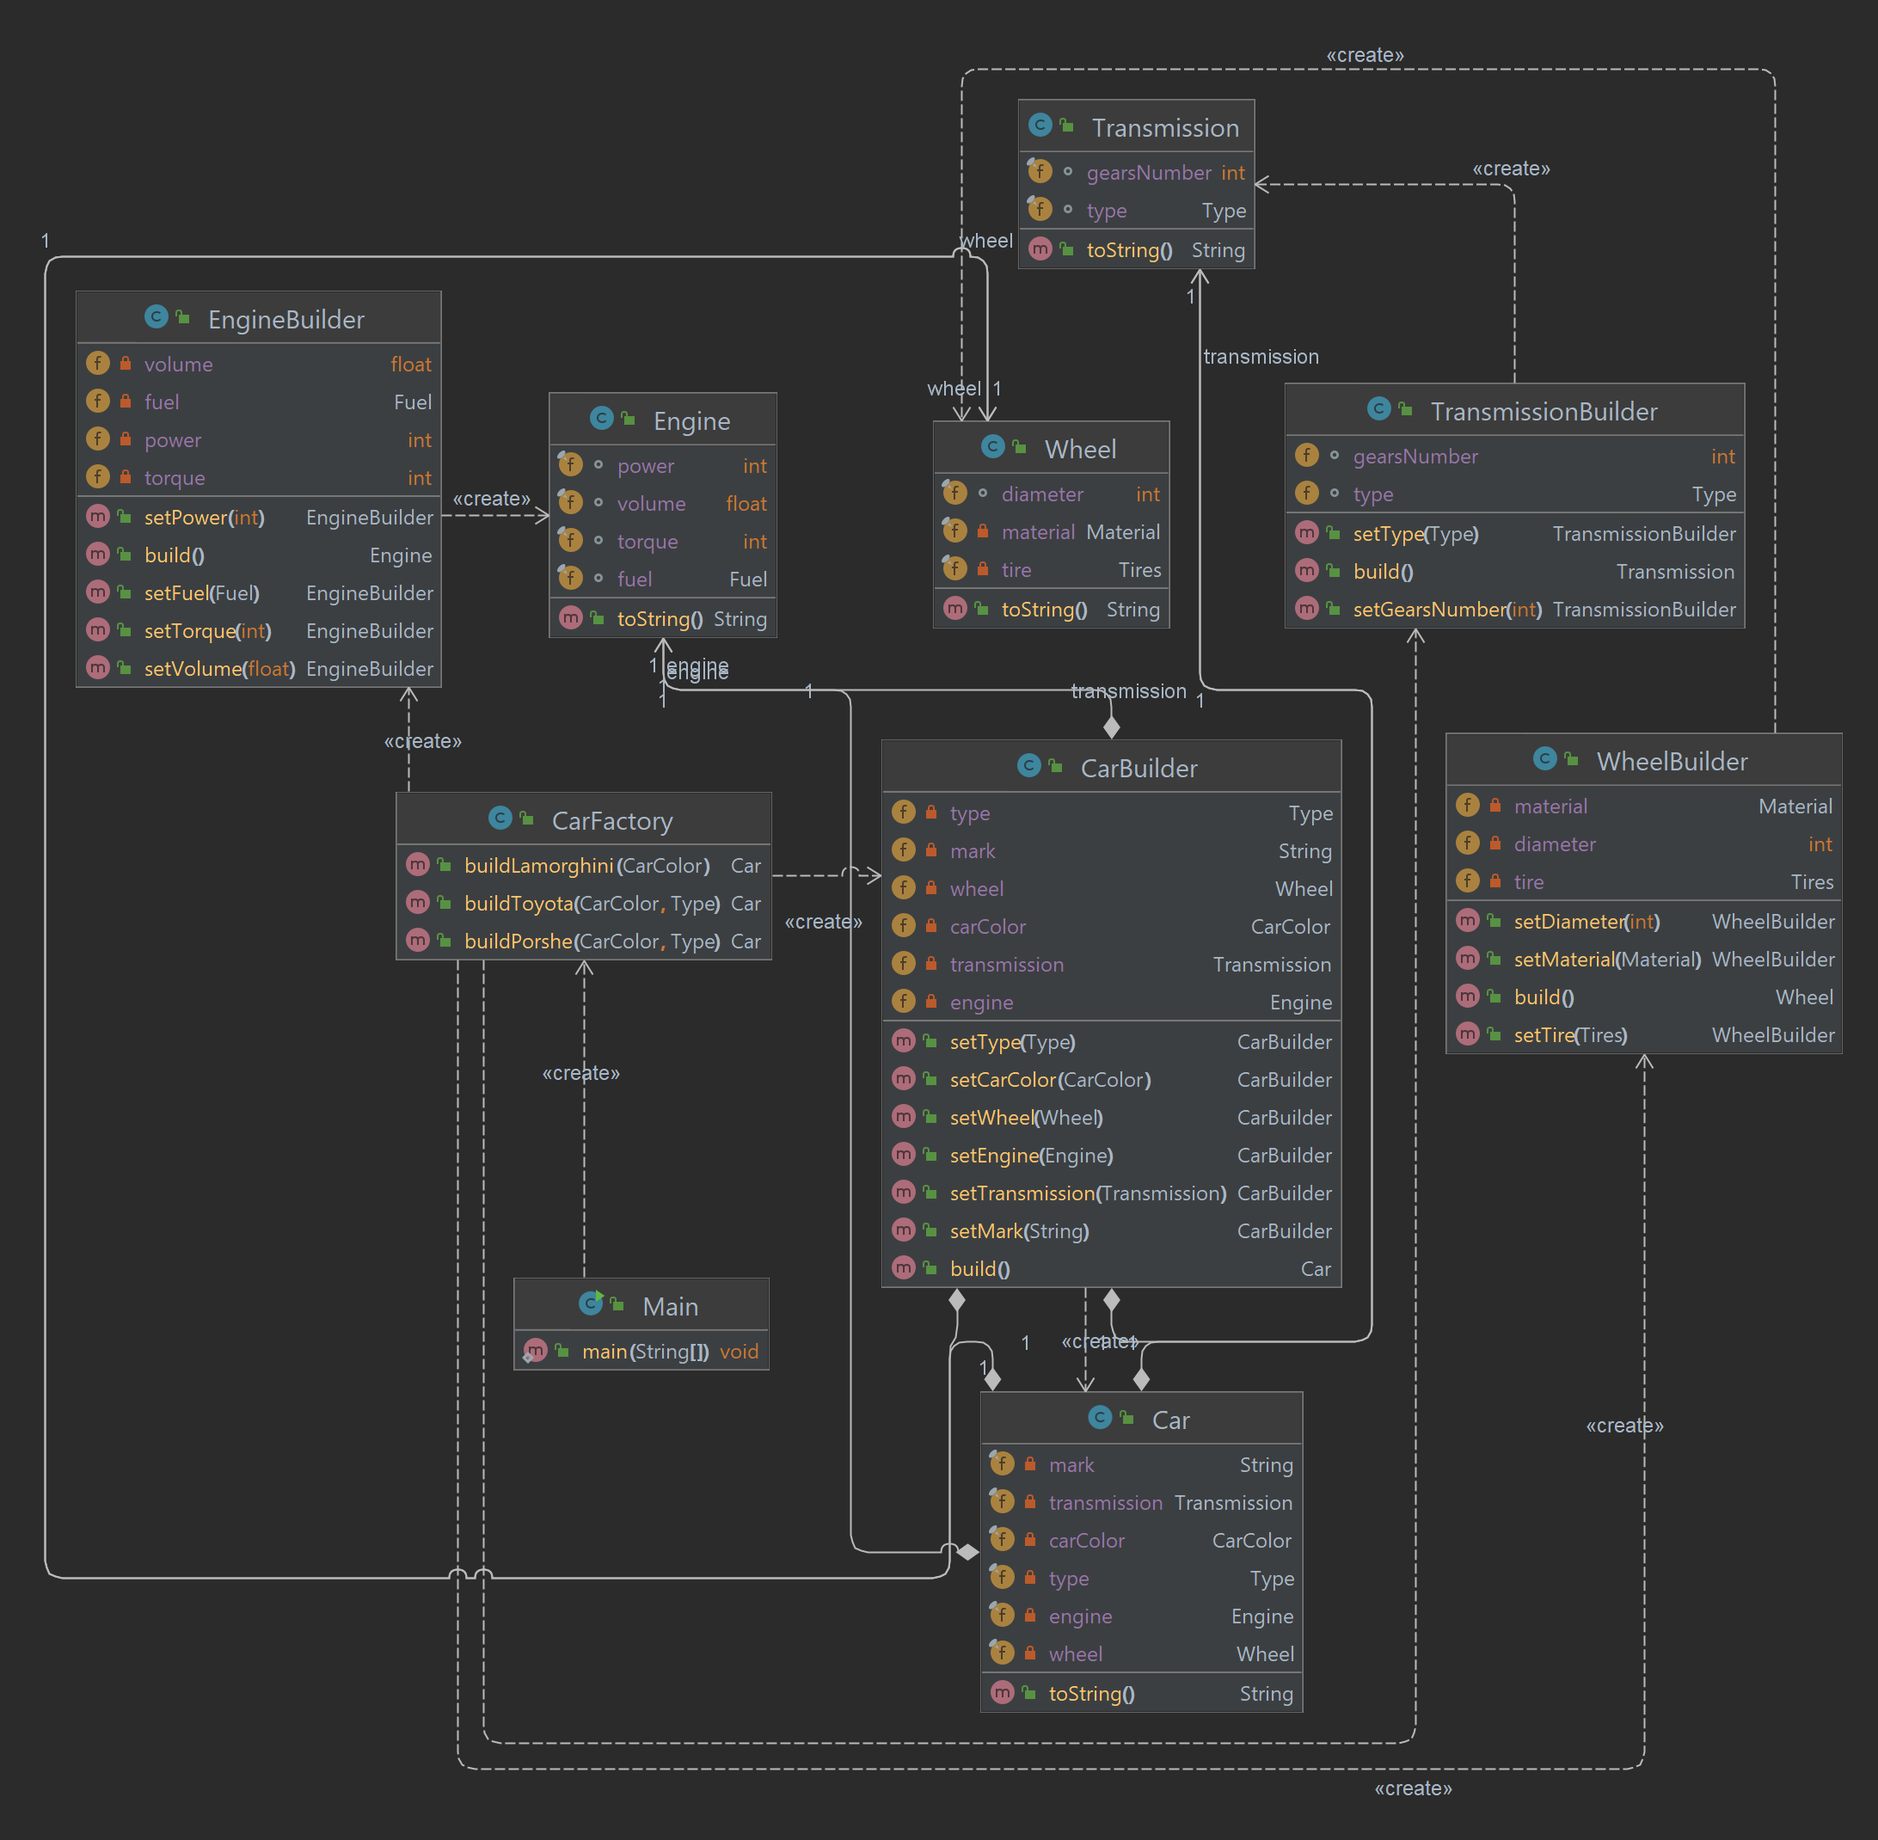
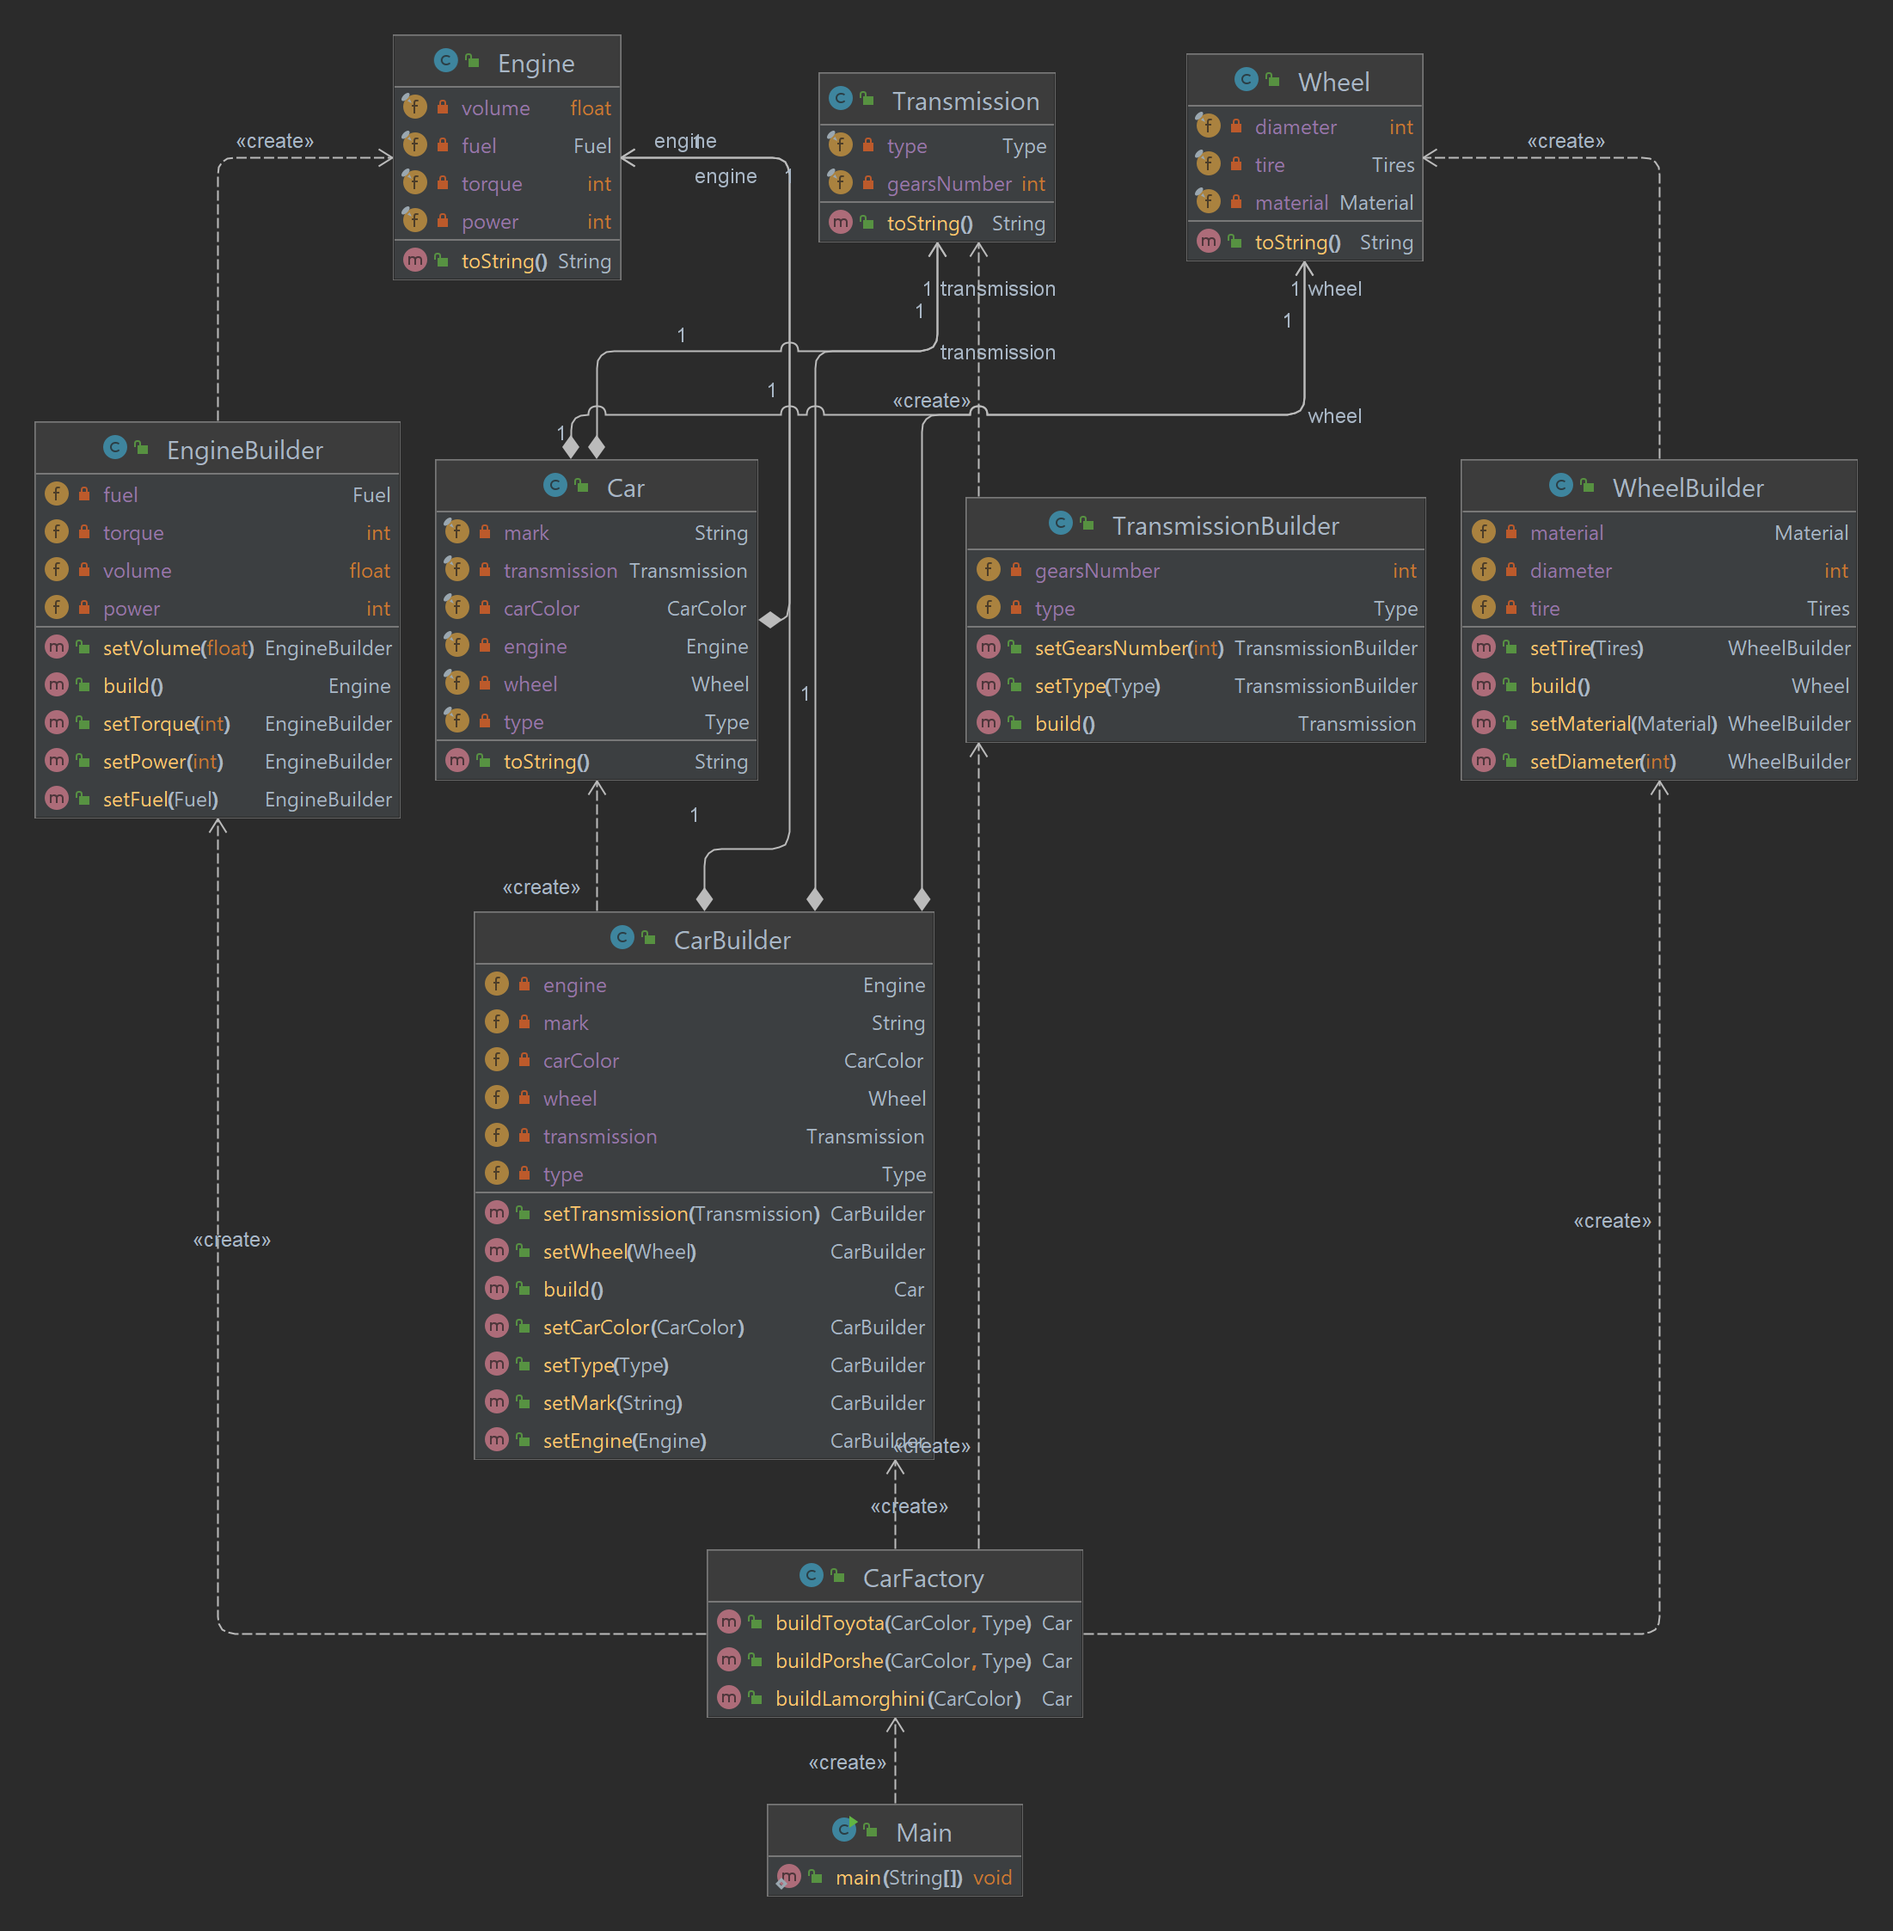
made fields private

diff --git a/lab_04_Builder/task_3_1/src/Engine.java b/lab_04_Builder/task_3_1/src/Engine.java
@@ -5,10 +5,10 @@ public class Engine {
         Electric   // Електрика
     }
 
-    final int power;     //  Потужність
-    final int torque;    //  Крутний момент
-    final Fuel fuel;     //  Вид пального
-    final float volume;  //  Об'єм двигуна
+    private final int power;     //  Потужність
+    private final int torque;    //  Крутний момент
+    private final Fuel fuel;     //  Вид пального
+    private final float volume;  //  Об'єм двигуна
 
     public Engine(int power, int torque, Fuel fuel, float volume) {
         this.power = power;

diff --git a/lab_04_Builder/task_3_1/src/Wheel.java b/lab_04_Builder/task_3_1/src/Wheel.java
@@ -12,7 +12,7 @@ public class Wheel {
         all_terrain
     }
     final private Material material;   // Матеріал диску
-    final int diameter;                //  Діаметр колеса
+    final private int diameter;                //  Діаметр колеса
     final private Tires tire;
 
     public Wheel(Material material,

diff --git a/lab_04_Builder/task_3_1/src/TransmissionBuilder.java b/lab_04_Builder/task_3_1/src/TransmissionBuilder.java
@@ -1,6 +1,6 @@
 public class TransmissionBuilder {
-    int gearsNumber = 5;
-    Transmission.Type type = Transmission.Type.Manual;
+    private int gearsNumber = 5;
+    private Transmission.Type type = Transmission.Type.Manual;
 
     public TransmissionBuilder setGearsNumber(int gearsNumber) {
         this.gearsNumber = gearsNumber;

diff --git a/lab_04_Builder/task_3_1/src/Transmission.java b/lab_04_Builder/task_3_1/src/Transmission.java
@@ -4,8 +4,8 @@ public class Transmission {
         Automatic,
         CVT
     }
-    final int gearsNumber;
-    final Type type;
+    private final int gearsNumber;
+    private final Type type;
 
     public Transmission(int gearsNumber, Type type) {
         this.gearsNumber = gearsNumber;
